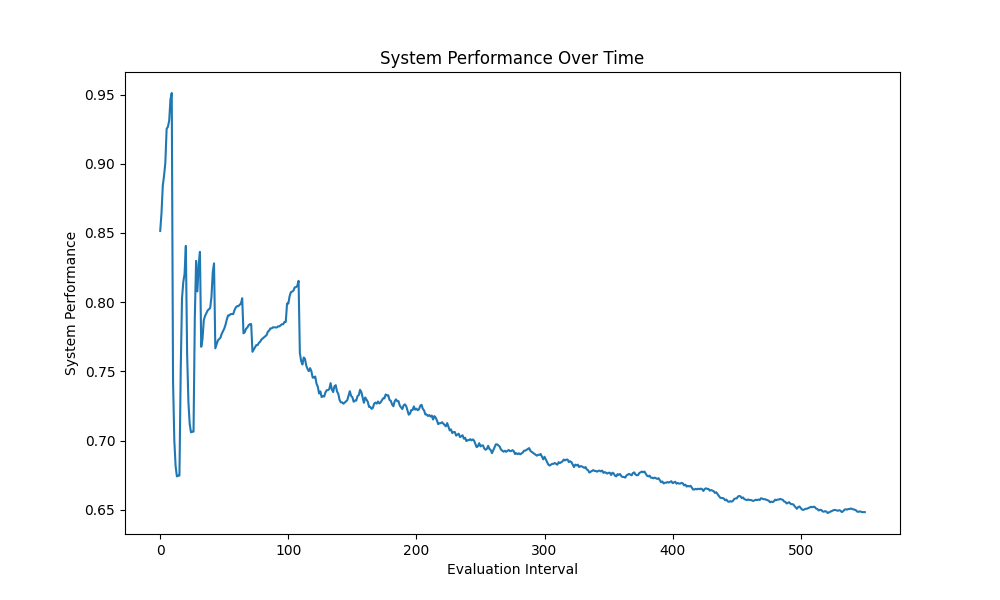
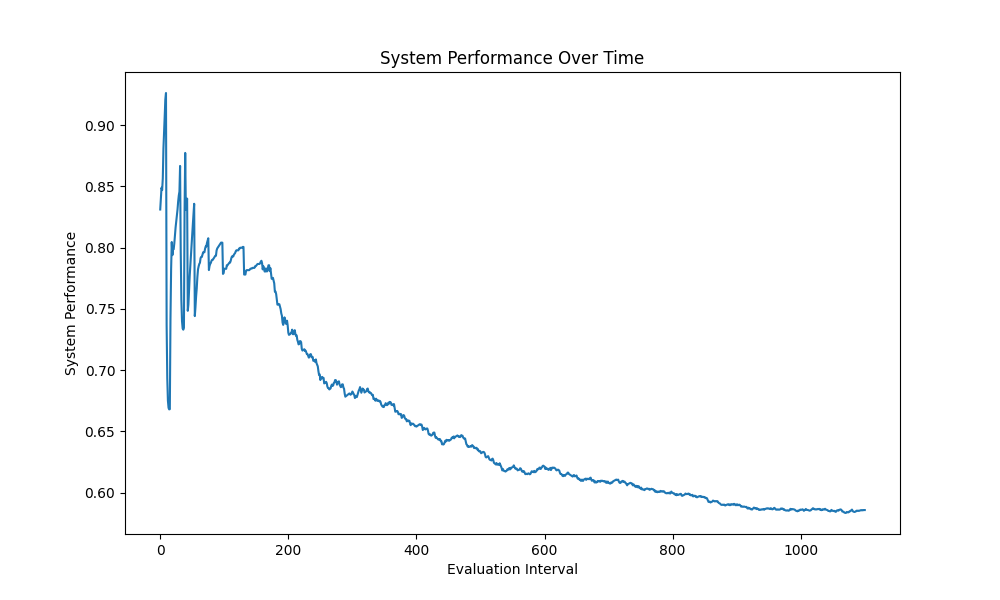
Backengine code update

diff --git a/collaborative_intelligence.py b/collaborative_intelligence.py
@@ -32,11 +32,12 @@ class Agent:
         self.mentor = None
         self.mentee = None
         self.mentoring_impact = defaultdict(list)  # Track impact of mentoring
+        self.ramp_up_boost = 1.0  # Temporary boost for new agents
 
     async def process_task(self, task: Task) -> Tuple[str, float]:
-        processing_time = task.complexity * (1 / self.reputation) * (1 / self.expertise_level[task.domain])
+        processing_time = task.complexity * (1 / (self.reputation * self.ramp_up_boost)) * (1 / self.expertise_level[task.domain])
         await asyncio.sleep(processing_time)
-        success_probability = min(1.0, (self.reputation * self.specialization_strength * self.expertise_level[task.domain]) / task.complexity)
+        success_probability = min(1.0, (self.reputation * self.ramp_up_boost * self.specialization_strength * self.expertise_level[task.domain]) / task.complexity)
         success = random.random() < success_probability
         result = 1.0 if success else 0.0
         self.task_history.append((task.task_id, result))
@@ -106,10 +107,13 @@ class Agent:
         self.expertise_level[domain] = min(10, self.expertise_level[domain] + 0.1)
         if self.mentee:
             mentee_old_expertise = self.mentee.expertise_level[domain]
-            self.mentee.expertise_level[domain] = min(self.mentee.expertise_level[domain] + 0.05, self.expertise_level[domain])
-            mentee_expertise_gain = self.mentee.expertise_level[domain] - mentee_old_expertise
+            mentee_expertise_gain = max(0, min(self.mentee.expertise_level[domain] + 0.05, self.expertise_level[domain]) - mentee_old_expertise)
+            self.mentee.expertise_level[domain] += mentee_expertise_gain
             self.mentoring_impact[domain].append(mentee_expertise_gain)
         return self.expertise_level[domain] - old_expertise
+
+    def decay_ramp_up_boost(self):
+        self.ramp_up_boost = max(1.0, self.ramp_up_boost * 0.95)
 
 class MultiAgentSystem:
     def __init__(self, agents: List[Agent]):
@@ -157,7 +161,8 @@ class MultiAgentSystem:
             catch_up_score = 1 + max(0, (avg_workload - agent.total_tasks_processed) / avg_workload)
             domain_balance_score = domain_workloads[task.domain] / total_domain_workload if total_domain_workload > 0 else 1
             expertise_score = agent.expertise_level[task.domain]
-            total_score = performance_score * workload_score * specialization_score * warm_up_score * integration_score * catch_up_score * domain_balance_score * expertise_score
+            ramp_up_score = agent.ramp_up_boost
+            total_score = performance_score * workload_score * specialization_score * warm_up_score * integration_score * catch_up_score * domain_balance_score * expertise_score * ramp_up_score
             agent_scores.append((agent, total_score))
         chosen_agent = max(agent_scores, key=lambda x: x[1])[0]
         self.log.append(f"Time {self.current_time}: Chose {chosen_agent.agent_id} for task {task.task_id}")
@@ -184,6 +189,7 @@ class MultiAgentSystem:
         task_diversity = len(set(task_id for task_id, _ in agent.task_history[-20:]))
         knowledge_contribution = len(agent.knowledge_base) / 20
         agent.reputation = 0.5 * recent_performance + 0.3 * (task_diversity / 20) + 0.2 * knowledge_contribution
+        agent.decay_ramp_up_boost()
         self.log.append(f"Time {self.current_time}: Updated {agent.agent_id} reputation to {agent.reputation:.2f}")
 
     def federated_learning_round(self):
@@ -242,6 +248,7 @@ class MultiAgentSystem:
 
     def add_agent(self, agent: Agent):
         agent.creation_time = self.current_time
+        agent.ramp_up_boost = 2.0  # Start with a 2x boost
         self.agents.append(agent)
         self._assign_mentor(agent)
         self.log.append(f"Time {self.current_time}: Added new agent {agent.agent_id}")
@@ -332,14 +339,14 @@ class MultiAgentSystem:
             best_specialization = agent.get_best_specialization()
             if best_specialization != agent.specialization:
                 performance_diff = agent.get_performance_difference()
-                change_probability = min(1.0, performance_diff * 20)  # Increased sensitivity
+                change_probability = min(1.0, performance_diff * 25)  # Increased sensitivity further
                 if random.random() < change_probability:
                     self._remove_mentorship(agent)
                     self.log.append(f"Time {self.current_time}: {agent.agent_id} changed specialization from {agent.specialization} to {best_specialization}")
                     self.specialization_changes.append((self.current_time, agent.agent_id, agent.specialization, best_specialization))
                     agent.specialization = best_specialization
                     agent.specialization_strength = 1.0  # Reset specialization strength
-                    agent.specialization_change_cooldown = 3  # Reduced cooldown period
+                    agent.specialization_change_cooldown = 2  # Reduced cooldown period further
                     self._assign_mentor(agent)
 
     def _update_performance_thresholds(self):
@@ -399,6 +406,24 @@ class MultiAgentSystem:
                 if agent.mentor:
                     agent.expertise_level[domain] = min(10, (agent.expertise_level[domain] + agent.mentor.expertise_level[domain]) / 2)
 
+    def _system_wide_optimization(self):
+        domain_performances = defaultdict(list)
+        for agent in self.agents:
+            for domain, perf in agent.performance_by_task_type.items():
+                if perf['total'] > 0:
+                    domain_performances[domain].append((agent, perf['success'] / perf['total']))
+        
+        for domain, performances in domain_performances.items():
+            best_agents = sorted(performances, key=lambda x: x[1], reverse=True)[:3]
+            for agent, _ in best_agents:
+                if agent.specialization != domain:
+                    self._remove_mentorship(agent)
+                    self.log.append(f"Time {self.current_time}: Reassigned {agent.agent_id} from {agent.specialization} to {domain}")
+                    self.specialization_changes.append((self.current_time, agent.agent_id, agent.specialization, domain))
+                    agent.specialization = domain
+                    agent.specialization_strength = 1.5  # Give a boost to the new specialization
+                    self._assign_mentor(agent)
+
     async def run_simulation(self, num_steps: int):
         for _ in range(num_steps):
             self.current_time += 1
@@ -421,6 +446,9 @@ class MultiAgentSystem:
                 elif performance > self.add_agent_threshold and len(self.agents) < 10:
                     new_agent = Agent(f"Agent_{len(self.agents)+1}", random.choice(['classification', 'regression', 'clustering']), random.choice(['classification', 'regression', 'clustering']))
                     self.add_agent(new_agent)
+
+            if self.current_time % 50 == 0:
+                self._system_wide_optimization()
 
         return self.evaluate_system_performance()
 

diff --git a/test_enhanced_collaborative_intelligence.py b/test_enhanced_collaborative_intelligence.py
@@ -28,9 +28,9 @@ async def test_enhanced_collaborative_intelligence():
         print(f"{agent.agent_id} reputation: {agent.reputation:.2f}")
 
     print("\n2. Extended Simulation:")
-    num_steps = 500  # Increased simulation steps
+    num_steps = 1000  # Increased simulation steps
     for step in range(num_steps):
-        if step % 50 == 0:
+        if step % 100 == 0:
             print(f"Step {step}/{num_steps}")
         await mas.run_simulation(1)
     final_performance = mas.evaluate_system_performance()
@@ -43,6 +43,7 @@ async def test_enhanced_collaborative_intelligence():
         print(f"{agent.agent_id} final specialization: {agent.specialization}")
         print(f"  Specialization strength: {agent.specialization_strength:.2f}")
         print(f"  Expertise levels: {agent.expertise_level}")
+        print(f"  Ramp-up boost: {agent.ramp_up_boost:.2f}")
         if agent.mentor:
             print(f"  Mentor: {agent.mentor.agent_id}")
         if agent.mentee:
